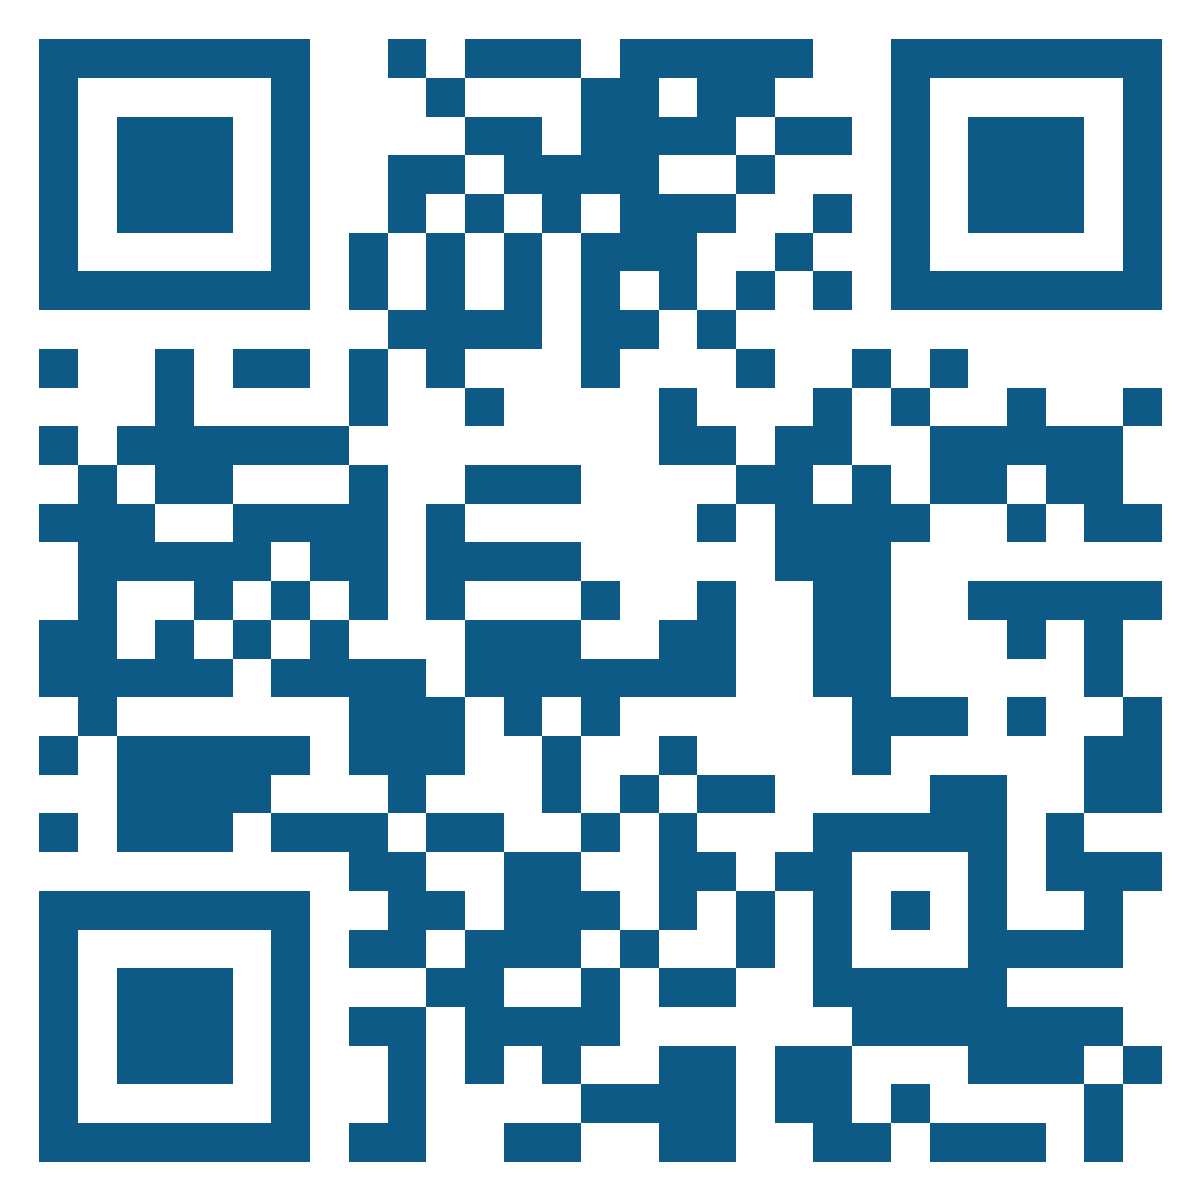
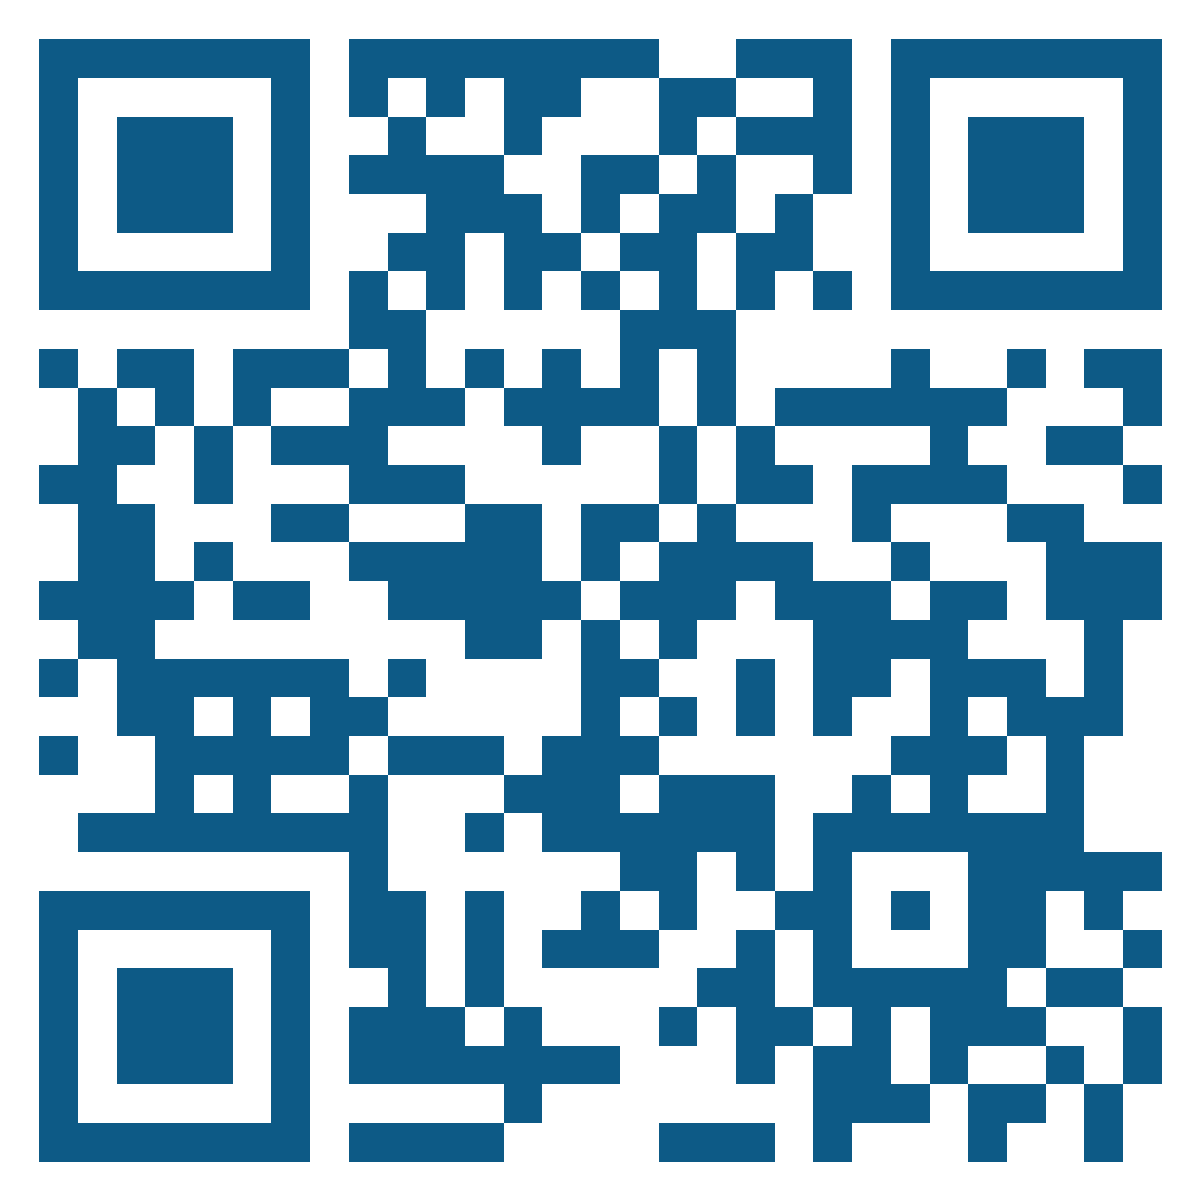
Lealtad: fija dominio real laola.mx en los QR (fuera de DEMO)

diff --git a/marketing/lealtad/flyers.html b/marketing/lealtad/flyers.html
@@ -68,14 +68,14 @@
     <div class="badge">Del Valle</div>
     <h1>Únete a La&nbsp;Ola</h1>
     <p class="lead">Escanéame y recibe tu <strong>regalo de bienvenida</strong> 🦐</p>
-    <div class="qr"><svg style="width:100%;height:100%" xmlns="http://www.w3.org/2000/svg" width="900" height="900" viewBox="0 0 31 31" shape-rendering="crispEdges"><path fill="#ffffff" d="M0 0h31v31H0z"/><path stroke="#0d5a86" d="M1 1.5h7m4 0h1m1 0h2m2 0h4m1 0h7M1 2.5h1m5 0h1m2 0h1m2 0h1m1 0h3m5 0h1m5 0h1M1 3.5h1m1 0h3m1 0h1m1 0h3m1 0h1m1 0h1m4 0h2m1 0h1m1 0h3m1 0h1M1 4.5h1m1 0h3m1 0h1m1 0h1m5 0h2m1 0h1m1 0h1m2 0h1m1 0h3m1 0h1M1 5.5h1m1 0h3m1 0h1m1 0h2m1 0h2m1 0h1m1 0h2m1 0h1m2 0h1m1 0h3m1 0h1M1 6.5h1m5 0h1m1 0h1m4 0h4m1 0h1m1 0h1m1 0h1m5 0h1M1 7.5h7m1 0h1m1 0h1m1 0h1m1 0h1m1 0h1m1 0h1m1 0h1m1 0h7M9 8.5h1m1 0h3m2 0h2m1 0h1M1 9.5h1m1 0h5m3 0h1m1 0h1m1 0h5m3 0h5M1 10.5h3m1 0h2m2 0h5m3 0h5m1 0h3m3 0h1M2 11.5h1m1 0h1m2 0h1m5 0h1m2 0h3m3 0h1m1 0h2M1 12.5h3m2 0h1m5 0h2m1 0h1m5 0h2m1 0h1m1 0h1m1 0h1M2 13.5h1m3 0h2m1 0h1m1 0h2m2 0h4m1 0h1m5 0h2M2 14.5h4m3 0h1m1 0h1m1 0h2m2 0h9m3 0h1M4 15.5h1m2 0h1m4 0h1m2 0h3m3 0h1m1 0h5M3 16.5h2m3 0h1m2 0h1m5 0h1m1 0h4m1 0h2m2 0h1M2 17.5h1m2 0h1m1 0h3m1 0h1m5 0h2m1 0h1m5 0h2M1 18.5h1m3 0h2m2 0h1m2 0h1m1 0h1m4 0h7m1 0h1m1 0h1M1 19.5h1m2 0h1m2 0h3m4 0h3m4 0h1m1 0h1m3 0h1M1 20.5h1m1 0h1m1 0h2m2 0h2m1 0h3m1 0h2m5 0h1m4 0h1M1 21.5h1m1 0h1m2 0h4m1 0h2m2 0h2m1 0h1m2 0h5m1 0h3M9 22.5h2m1 0h1m4 0h1m1 0h1m1 0h1m3 0h5M1 23.5h7m4 0h1m3 0h2m1 0h3m1 0h1m1 0h3M1 24.5h1m5 0h1m1 0h1m1 0h3m1 0h2m3 0h2m3 0h1m2 0h1M1 25.5h1m1 0h3m1 0h1m1 0h2m1 0h1m3 0h1m1 0h1m2 0h5m1 0h3M1 26.5h1m1 0h3m1 0h1m1 0h1m1 0h1m1 0h3m1 0h3m2 0h1m3 0h4M1 27.5h1m1 0h3m1 0h1m1 0h2m4 0h2m3 0h9M1 28.5h1m5 0h1m2 0h4m1 0h3m1 0h1m1 0h1m1 0h4m1 0h1M1 29.5h7m1 0h1m3 0h1m1 0h4m1 0h1m3 0h2m1 0h1"/></svg>
+    <div class="qr"><svg style="width:100%;height:100%" xmlns="http://www.w3.org/2000/svg" width="900" height="900" viewBox="0 0 31 31" shape-rendering="crispEdges"><path fill="#ffffff" d="M0 0h31v31H0z"/><path stroke="#0d5a86" d="M1 1.5h7m1 0h2m2 0h4m2 0h3m1 0h7M1 2.5h1m5 0h1m1 0h4m1 0h1m2 0h2m2 0h1m1 0h1m5 0h1M1 3.5h1m1 0h3m1 0h1m2 0h2m5 0h1m1 0h3m1 0h1m1 0h3m1 0h1M1 4.5h1m1 0h3m1 0h1m1 0h5m1 0h2m1 0h1m2 0h1m1 0h1m1 0h3m1 0h1M1 5.5h1m1 0h3m1 0h1m3 0h1m3 0h1m1 0h2m1 0h1m2 0h1m1 0h3m1 0h1M1 6.5h1m5 0h1m5 0h2m1 0h2m1 0h2m2 0h1m5 0h1M1 7.5h7m1 0h1m1 0h1m1 0h1m1 0h1m1 0h1m1 0h1m1 0h1m1 0h7M9 8.5h1m1 0h3m2 0h3M1 9.5h1m1 0h2m1 0h3m3 0h3m1 0h1m1 0h1m4 0h1m2 0h1m1 0h2M1 10.5h3m2 0h1m4 0h1m2 0h3m1 0h1m1 0h6m3 0h1M2 11.5h1m1 0h1m1 0h2m3 0h1m1 0h2m2 0h1m1 0h1m4 0h1m2 0h2M2 12.5h1m2 0h1m7 0h1m3 0h1m1 0h2m1 0h4m3 0h1M2 13.5h1m1 0h1m2 0h3m1 0h3m1 0h2m1 0h1m3 0h1m3 0h2M1 14.5h1m1 0h1m2 0h1m5 0h2m1 0h1m1 0h4m2 0h1m3 0h3M2 15.5h1m1 0h5m1 0h1m2 0h2m1 0h3m1 0h3m1 0h2m1 0h3M3 16.5h1m1 0h2m3 0h1m1 0h2m1 0h1m1 0h1m3 0h4m3 0h1M4 17.5h1m2 0h1m1 0h2m1 0h1m2 0h2m2 0h1m1 0h2m1 0h3m1 0h1M2 18.5h5m1 0h2m3 0h1m1 0h1m1 0h1m1 0h1m1 0h1m2 0h1m1 0h3M1 19.5h1m1 0h1m2 0h2m1 0h1m2 0h5m6 0h3m1 0h1M3 20.5h4m1 0h3m3 0h2m1 0h3m2 0h1m1 0h1m2 0h1M2 21.5h2m1 0h5m3 0h7m1 0h7M9 22.5h2m1 0h1m3 0h2m1 0h1m1 0h1m3 0h5M1 23.5h7m1 0h2m1 0h2m1 0h1m1 0h1m2 0h2m1 0h1m1 0h2m1 0h1M1 24.5h1m5 0h1m1 0h2m2 0h3m1 0h1m1 0h1m1 0h1m3 0h2m2 0h1M1 25.5h1m1 0h3m1 0h1m2 0h1m1 0h1m3 0h1m1 0h2m1 0h5m1 0h2M1 26.5h1m1 0h3m1 0h1m1 0h1m2 0h1m4 0h1m1 0h2m1 0h1m1 0h3m2 0h1M1 27.5h1m1 0h3m1 0h1m1 0h4m4 0h1m1 0h1m1 0h2m1 0h1m2 0h1m1 0h1M1 28.5h1m5 0h1m2 0h4m3 0h1m3 0h3m1 0h2m1 0h1M1 29.5h7m1 0h2m1 0h2m3 0h3m1 0h1m3 0h1m2 0h1"/></svg>
 </div>
     <ol class="pasos">
       <li>Apunta tu cámara al código</li>
       <li>Llena tus datos (30 segundos)</li>
       <li>Listo, ya eres parte de La Ola 🌊</li>
     </ol>
-    <div class="aviso-demo">QR DEMO · falta el dominio real del sitio</div>
+    
     <p class="legal">Al registrarte aceptas recibir promociones de La Ola. Puedes darte de baja cuando quieras. Aviso de privacidad: laola.mx/privacidad</p>
     <div class="wave-bot"></div>
   </section>
@@ -86,14 +86,14 @@
     <div class="badge">Las Brisas</div>
     <h1>Únete a La&nbsp;Ola</h1>
     <p class="lead">Escanéame y recibe tu <strong>regalo de bienvenida</strong> 🦐</p>
-    <div class="qr"><svg style="width:100%;height:100%" xmlns="http://www.w3.org/2000/svg" width="900" height="900" viewBox="0 0 31 31" shape-rendering="crispEdges"><path fill="#ffffff" d="M0 0h31v31H0z"/><path stroke="#0d5a86" d="M1 1.5h7m2 0h1m3 0h2m2 0h4m1 0h7M1 2.5h1m5 0h1m3 0h1m1 0h1m1 0h3m5 0h1m5 0h1M1 3.5h1m1 0h3m1 0h1m1 0h4m2 0h1m4 0h2m1 0h1m1 0h3m1 0h1M1 4.5h1m1 0h3m1 0h1m1 0h1m1 0h1m1 0h1m1 0h2m1 0h1m1 0h1m2 0h1m1 0h3m1 0h1M1 5.5h1m1 0h3m1 0h1m1 0h1m1 0h3m3 0h2m1 0h1m2 0h1m1 0h3m1 0h1M1 6.5h1m5 0h1m1 0h1m2 0h3m1 0h2m1 0h1m1 0h1m1 0h1m5 0h1M1 7.5h7m1 0h1m1 0h1m1 0h1m1 0h1m1 0h1m1 0h1m1 0h1m1 0h7M9 8.5h5m2 0h2m1 0h1M1 9.5h1m1 0h5m3 0h1m1 0h1m1 0h5m3 0h5M4 10.5h1m1 0h1m3 0h1m4 0h1m1 0h5m1 0h3m3 0h1M5 11.5h1m1 0h1m4 0h3m1 0h3m3 0h1m1 0h2M2 12.5h3m3 0h2m1 0h1m9 0h2m1 0h1m1 0h1m1 0h1M3 13.5h2m2 0h4m4 0h4m1 0h1m5 0h2M2 14.5h1m1 0h1m3 0h1m5 0h1m2 0h9m3 0h1M2 15.5h1m1 0h2m1 0h1m2 0h4m2 0h2m3 0h1m1 0h5M1 16.5h1m3 0h2m2 0h1m1 0h3m1 0h1m1 0h1m1 0h4m1 0h2m2 0h1M2 17.5h3m2 0h1m2 0h1m1 0h1m4 0h2m1 0h1m5 0h2M1 18.5h1m1 0h1m1 0h2m2 0h4m1 0h1m4 0h7m1 0h1m1 0h1M1 19.5h1m1 0h1m3 0h1m4 0h5m4 0h1m1 0h1m3 0h1M1 20.5h1m1 0h2m4 0h4m1 0h1m1 0h2m5 0h1m4 0h1M1 21.5h1m4 0h2m1 0h4m2 0h2m1 0h1m2 0h5m1 0h3M9 22.5h2m1 0h1m4 0h1m1 0h1m1 0h1m3 0h5M1 23.5h7m2 0h4m2 0h2m1 0h3m1 0h1m1 0h3M1 24.5h1m5 0h1m1 0h3m1 0h1m1 0h2m3 0h2m3 0h1m2 0h1M1 25.5h1m1 0h3m1 0h1m1 0h2m2 0h1m2 0h1m1 0h1m2 0h5m1 0h3M1 26.5h1m1 0h3m1 0h1m1 0h1m2 0h1m1 0h2m1 0h3m2 0h1m3 0h4M1 27.5h1m1 0h3m1 0h1m1 0h1m1 0h2m3 0h1m3 0h9M1 28.5h1m5 0h1m4 0h3m1 0h2m1 0h1m1 0h1m1 0h4m1 0h1M1 29.5h7m1 0h1m2 0h1m1 0h1m1 0h3m1 0h1m3 0h2m1 0h1"/></svg>
+    <div class="qr"><svg style="width:100%;height:100%" xmlns="http://www.w3.org/2000/svg" width="900" height="900" viewBox="0 0 31 31" shape-rendering="crispEdges"><path fill="#ffffff" d="M0 0h31v31H0z"/><path stroke="#0d5a86" d="M1 1.5h7m1 0h1m1 0h1m2 0h3m2 0h3m1 0h7M1 2.5h1m5 0h1m1 0h3m1 0h2m2 0h2m2 0h1m1 0h1m5 0h1M1 3.5h1m1 0h3m1 0h1m2 0h2m1 0h1m3 0h1m1 0h3m1 0h1m1 0h3m1 0h1M1 4.5h1m1 0h3m1 0h1m1 0h1m1 0h2m2 0h2m1 0h1m2 0h1m1 0h1m1 0h3m1 0h1M1 5.5h1m1 0h3m1 0h1m2 0h1m1 0h2m1 0h1m1 0h2m1 0h1m2 0h1m1 0h3m1 0h1M1 6.5h1m5 0h1m4 0h3m1 0h2m1 0h2m2 0h1m5 0h1M1 7.5h7m1 0h1m1 0h1m1 0h1m1 0h1m1 0h1m1 0h1m1 0h1m1 0h7M9 8.5h1m2 0h1m3 0h3M1 9.5h1m1 0h2m1 0h3m2 0h1m2 0h1m1 0h1m1 0h1m4 0h1m2 0h1m1 0h2M2 10.5h2m1 0h2m4 0h2m1 0h3m1 0h1m1 0h6m3 0h1M1 11.5h1m1 0h3m1 0h1m1 0h2m2 0h2m2 0h1m1 0h1m4 0h1m2 0h2M2 12.5h1m2 0h1m4 0h2m5 0h1m1 0h2m1 0h4m3 0h1M3 13.5h1m2 0h2m1 0h1m1 0h1m3 0h2m1 0h1m3 0h1m3 0h2M4 14.5h1m3 0h1m4 0h1m1 0h1m1 0h4m2 0h1m3 0h3M1 15.5h2m2 0h1m1 0h2m2 0h1m2 0h1m1 0h3m1 0h3m1 0h2m1 0h3M3 16.5h1m5 0h1m2 0h2m1 0h1m1 0h1m3 0h4m3 0h1M2 17.5h2m2 0h2m1 0h2m4 0h2m2 0h1m1 0h2m1 0h3m1 0h1M2 18.5h5m1 0h6m1 0h1m1 0h1m1 0h1m1 0h1m2 0h1m1 0h3M1 19.5h1m1 0h1m1 0h1m1 0h1m6 0h4m5 0h3m1 0h1M5 20.5h1m4 0h1m1 0h4m2 0h2m2 0h1m1 0h1m2 0h1M2 21.5h1m1 0h1m2 0h1m1 0h1m2 0h8m1 0h7M9 22.5h1m1 0h2m3 0h2m1 0h1m1 0h1m3 0h5M1 23.5h7m1 0h1m1 0h1m1 0h1m1 0h1m4 0h2m1 0h1m1 0h2m1 0h1M1 24.5h1m5 0h1m1 0h2m3 0h4m1 0h1m1 0h1m3 0h2m2 0h1M1 25.5h1m1 0h3m1 0h1m2 0h1m1 0h2m2 0h4m1 0h5m1 0h2M1 26.5h1m1 0h3m1 0h1m1 0h1m3 0h2m2 0h1m1 0h2m1 0h1m1 0h3m2 0h1M1 27.5h1m1 0h3m1 0h1m1 0h2m1 0h3m2 0h1m1 0h1m1 0h2m1 0h1m2 0h1m1 0h1M1 28.5h1m5 0h1m2 0h4m1 0h1m5 0h3m1 0h2m1 0h1M1 29.5h7m1 0h3m1 0h3m2 0h2m1 0h1m3 0h1m2 0h1"/></svg>
 </div>
     <ol class="pasos">
       <li>Apunta tu cámara al código</li>
       <li>Llena tus datos (30 segundos)</li>
       <li>Listo, ya eres parte de La Ola 🌊</li>
     </ol>
-    <div class="aviso-demo">QR DEMO · falta el dominio real del sitio</div>
+    
     <p class="legal">Al registrarte aceptas recibir promociones de La Ola. Puedes darte de baja cuando quieras. Aviso de privacidad: laola.mx/privacidad</p>
     <div class="wave-bot"></div>
   </section>
@@ -104,14 +104,14 @@
     <div class="badge">Cervecería</div>
     <h1>Únete a La&nbsp;Ola</h1>
     <p class="lead">Escanéame y recibe tu <strong>regalo de bienvenida</strong> 🦐</p>
-    <div class="qr"><svg style="width:100%;height:100%" xmlns="http://www.w3.org/2000/svg" width="900" height="900" viewBox="0 0 31 31" shape-rendering="crispEdges"><path fill="#ffffff" d="M0 0h31v31H0z"/><path stroke="#0d5a86" d="M1 1.5h7m2 0h2m1 0h3m2 0h4m1 0h7M1 2.5h1m5 0h1m2 0h1m1 0h1m2 0h3m5 0h1m5 0h1M1 3.5h1m1 0h3m1 0h1m1 0h1m3 0h1m1 0h1m4 0h2m1 0h1m1 0h3m1 0h1M1 4.5h1m1 0h3m1 0h1m1 0h3m3 0h2m1 0h1m1 0h1m2 0h1m1 0h3m1 0h1M1 5.5h1m1 0h3m1 0h1m1 0h1m1 0h1m5 0h2m1 0h1m2 0h1m1 0h3m1 0h1M1 6.5h1m5 0h1m1 0h1m1 0h2m1 0h1m1 0h2m1 0h1m1 0h1m1 0h1m5 0h1M1 7.5h7m1 0h1m1 0h1m1 0h1m1 0h1m1 0h1m1 0h1m1 0h1m1 0h7M9 8.5h1m2 0h2m1 0h3m1 0h1M1 9.5h1m1 0h5m4 0h2m1 0h5m3 0h5M1 10.5h2m5 0h1m3 0h1m4 0h5m1 0h3m3 0h1M2 11.5h2m1 0h5m1 0h1m1 0h1m1 0h4m3 0h1m1 0h2M1 12.5h1m2 0h1m1 0h1m1 0h1m1 0h3m2 0h1m5 0h2m1 0h1m1 0h1m1 0h1M1 13.5h3m1 0h5m2 0h2m1 0h4m1 0h1m5 0h2M2 14.5h2m5 0h2m1 0h1m2 0h1m1 0h9m3 0h1M2 15.5h2m1 0h1m1 0h1m1 0h6m1 0h2m3 0h1m1 0h5M2 16.5h2m1 0h2m5 0h2m3 0h1m1 0h4m1 0h2m2 0h1M3 17.5h3m1 0h1m1 0h1m3 0h1m3 0h2m1 0h1m5 0h2M1 18.5h2m3 0h1m1 0h2m4 0h1m4 0h7m1 0h1m1 0h1M1 19.5h1m2 0h1m2 0h1m3 0h2m1 0h3m4 0h1m1 0h1m3 0h1M1 20.5h1m1 0h2m3 0h1m2 0h4m1 0h2m5 0h1m4 0h1M1 21.5h1m1 0h1m1 0h3m1 0h1m1 0h3m1 0h2m1 0h1m2 0h5m1 0h3M9 22.5h1m3 0h1m3 0h1m1 0h1m1 0h1m3 0h5M1 23.5h7m2 0h2m1 0h1m2 0h2m1 0h3m1 0h1m1 0h3M1 24.5h1m5 0h1m1 0h2m2 0h1m1 0h2m3 0h2m3 0h1m2 0h1M1 25.5h1m1 0h3m1 0h1m1 0h3m4 0h1m1 0h1m2 0h5m1 0h3M1 26.5h1m1 0h3m1 0h1m1 0h1m2 0h1m1 0h2m1 0h3m2 0h1m3 0h4M1 27.5h1m1 0h3m1 0h1m1 0h2m2 0h4m3 0h9M1 28.5h1m5 0h1m3 0h7m1 0h1m1 0h1m1 0h4m1 0h1M1 29.5h7m1 0h3m4 0h3m1 0h1m3 0h2m1 0h1"/></svg>
+    <div class="qr"><svg style="width:100%;height:100%" xmlns="http://www.w3.org/2000/svg" width="900" height="900" viewBox="0 0 31 31" shape-rendering="crispEdges"><path fill="#ffffff" d="M0 0h31v31H0z"/><path stroke="#0d5a86" d="M1 1.5h7m1 0h1m2 0h1m1 0h3m2 0h3m1 0h7M1 2.5h1m5 0h1m1 0h2m1 0h1m1 0h1m2 0h2m2 0h1m1 0h1m5 0h1M1 3.5h1m1 0h3m1 0h1m2 0h2m5 0h1m1 0h3m1 0h1m1 0h3m1 0h1M1 4.5h1m1 0h3m1 0h1m1 0h4m2 0h2m1 0h1m2 0h1m1 0h1m1 0h3m1 0h1M1 5.5h1m1 0h3m1 0h1m2 0h1m4 0h1m1 0h2m1 0h1m2 0h1m1 0h3m1 0h1M1 6.5h1m5 0h1m2 0h1m1 0h1m1 0h1m1 0h2m1 0h2m2 0h1m5 0h1M1 7.5h7m1 0h1m1 0h1m1 0h1m1 0h1m1 0h1m1 0h1m1 0h1m1 0h7M9 8.5h1m1 0h3m2 0h3M1 9.5h1m1 0h2m1 0h3m1 0h1m1 0h3m1 0h1m1 0h1m4 0h1m2 0h1m1 0h2M2 10.5h1m5 0h4m2 0h3m1 0h1m1 0h6m3 0h1M1 11.5h1m2 0h6m2 0h3m2 0h1m1 0h1m4 0h1m2 0h2M1 12.5h1m1 0h1m1 0h2m1 0h2m2 0h2m3 0h1m1 0h2m1 0h4m3 0h1M1 13.5h1m1 0h1m3 0h3m2 0h1m2 0h2m1 0h1m3 0h1m3 0h2M1 14.5h1m2 0h2m2 0h1m1 0h3m2 0h1m1 0h4m2 0h1m3 0h3M1 15.5h2m2 0h1m1 0h1m2 0h1m1 0h1m1 0h1m1 0h3m1 0h3m1 0h2m1 0h3M4 16.5h1m1 0h1m6 0h1m1 0h1m1 0h1m3 0h4m3 0h1M2 17.5h2m3 0h1m1 0h3m1 0h1m1 0h2m2 0h1m1 0h2m1 0h3m1 0h1M2 18.5h1m3 0h1m1 0h2m1 0h1m3 0h1m1 0h1m1 0h1m1 0h1m2 0h1m1 0h3M1 19.5h1m2 0h2m1 0h1m2 0h1m1 0h5m6 0h3m1 0h1M5 20.5h1m2 0h3m2 0h4m1 0h2m2 0h1m1 0h1m2 0h1M2 21.5h2m1 0h5m2 0h1m1 0h2m2 0h2m1 0h7M9 22.5h2m1 0h1m3 0h2m1 0h1m1 0h1m3 0h5M1 23.5h7m1 0h2m1 0h1m2 0h1m1 0h1m2 0h2m1 0h1m1 0h2m1 0h1M1 24.5h1m5 0h1m1 0h2m3 0h2m3 0h1m1 0h1m3 0h2m2 0h1M1 25.5h1m1 0h3m1 0h1m4 0h2m2 0h1m1 0h2m1 0h5m1 0h2M1 26.5h1m1 0h3m1 0h1m1 0h3m5 0h1m1 0h2m1 0h1m1 0h3m2 0h1M1 27.5h1m1 0h3m1 0h1m1 0h1m1 0h1m2 0h2m3 0h1m1 0h2m1 0h1m2 0h1m1 0h1M1 28.5h1m5 0h1m2 0h2m1 0h1m1 0h1m5 0h3m1 0h2m1 0h1M1 29.5h7m1 0h1m4 0h1m3 0h2m1 0h1m3 0h1m2 0h1"/></svg>
 </div>
     <ol class="pasos">
       <li>Apunta tu cámara al código</li>
       <li>Llena tus datos (30 segundos)</li>
       <li>Listo, ya eres parte de La Ola 🌊</li>
     </ol>
-    <div class="aviso-demo">QR DEMO · falta el dominio real del sitio</div>
+    
     <p class="legal">Al registrarte aceptas recibir promociones de La Ola. Puedes darte de baja cuando quieras. Aviso de privacidad: laola.mx/privacidad</p>
     <div class="wave-bot"></div>
   </section>
@@ -122,14 +122,14 @@
     <div class="badge">Solares</div>
     <h1>Únete a La&nbsp;Ola</h1>
     <p class="lead">Escanéame y recibe tu <strong>regalo de bienvenida</strong> 🦐</p>
-    <div class="qr"><svg style="width:100%;height:100%" xmlns="http://www.w3.org/2000/svg" width="900" height="900" viewBox="0 0 31 31" shape-rendering="crispEdges"><path fill="#ffffff" d="M0 0h31v31H0z"/><path stroke="#0d5a86" d="M1 1.5h7m2 0h1m1 0h3m1 0h5m2 0h7M1 2.5h1m5 0h1m3 0h1m3 0h2m1 0h2m3 0h1m5 0h1M1 3.5h1m1 0h3m1 0h1m4 0h2m1 0h4m1 0h2m1 0h1m1 0h3m1 0h1M1 4.5h1m1 0h3m1 0h1m2 0h2m1 0h4m2 0h1m3 0h1m1 0h3m1 0h1M1 5.5h1m1 0h3m1 0h1m2 0h1m1 0h1m1 0h1m1 0h3m2 0h1m1 0h1m1 0h3m1 0h1M1 6.5h1m5 0h1m1 0h1m1 0h1m1 0h1m1 0h3m2 0h1m2 0h1m5 0h1M1 7.5h7m1 0h1m1 0h1m1 0h1m1 0h1m1 0h1m1 0h1m1 0h1m1 0h7M10 8.5h4m1 0h2m1 0h1M1 9.5h1m2 0h1m1 0h2m1 0h1m1 0h1m3 0h1m3 0h1m2 0h1m1 0h1M4 10.5h1m4 0h1m2 0h1m4 0h1m3 0h1m1 0h1m2 0h1m2 0h1M1 11.5h1m1 0h6m8 0h2m1 0h2m2 0h5M2 12.5h1m1 0h2m3 0h1m2 0h3m4 0h2m1 0h1m1 0h2m1 0h2M1 13.5h3m2 0h4m1 0h1m6 0h1m1 0h4m2 0h1m1 0h2M2 14.5h5m1 0h2m1 0h4m5 0h3M2 15.5h1m2 0h1m1 0h1m1 0h1m1 0h1m3 0h1m2 0h1m2 0h2m2 0h5M1 16.5h2m1 0h1m1 0h1m1 0h1m3 0h3m2 0h2m2 0h2m3 0h1m1 0h1M1 17.5h5m1 0h4m1 0h7m2 0h2m5 0h1M2 18.5h1m6 0h3m1 0h1m1 0h1m6 0h3m1 0h1m2 0h1M1 19.5h1m1 0h5m1 0h3m2 0h1m2 0h1m4 0h1m5 0h2M3 20.5h4m3 0h1m3 0h1m1 0h1m1 0h2m4 0h2m2 0h2M1 21.5h1m1 0h3m1 0h3m1 0h2m2 0h1m1 0h1m3 0h5m1 0h1M9 22.5h2m2 0h2m2 0h2m1 0h2m3 0h1m1 0h3M1 23.5h7m2 0h2m1 0h3m1 0h1m1 0h1m1 0h1m1 0h1m1 0h1m2 0h1M1 24.5h1m5 0h1m1 0h2m1 0h3m1 0h1m2 0h1m1 0h1m3 0h4M1 25.5h1m1 0h3m1 0h1m3 0h2m2 0h1m1 0h2m2 0h5M1 26.5h1m1 0h3m1 0h1m1 0h2m1 0h4m6 0h7M1 27.5h1m1 0h3m1 0h1m2 0h1m1 0h1m1 0h1m2 0h2m1 0h2m3 0h3m1 0h1M1 28.5h1m5 0h1m2 0h1m4 0h4m1 0h2m1 0h1m4 0h1M1 29.5h7m1 0h2m2 0h2m2 0h2m2 0h2m1 0h3m1 0h1"/></svg>
+    <div class="qr"><svg style="width:100%;height:100%" xmlns="http://www.w3.org/2000/svg" width="900" height="900" viewBox="0 0 31 31" shape-rendering="crispEdges"><path fill="#ffffff" d="M0 0h31v31H0z"/><path stroke="#0d5a86" d="M1 1.5h7m1 0h8m2 0h3m1 0h7M1 2.5h1m5 0h1m1 0h1m1 0h1m1 0h2m2 0h2m2 0h1m1 0h1m5 0h1M1 3.5h1m1 0h3m1 0h1m2 0h1m2 0h1m3 0h1m1 0h3m1 0h1m1 0h3m1 0h1M1 4.5h1m1 0h3m1 0h1m1 0h4m2 0h2m1 0h1m2 0h1m1 0h1m1 0h3m1 0h1M1 5.5h1m1 0h3m1 0h1m3 0h3m1 0h1m1 0h2m1 0h1m2 0h1m1 0h3m1 0h1M1 6.5h1m5 0h1m2 0h2m1 0h2m1 0h2m1 0h2m2 0h1m5 0h1M1 7.5h7m1 0h1m1 0h1m1 0h1m1 0h1m1 0h1m1 0h1m1 0h1m1 0h7M9 8.5h2m5 0h3M1 9.5h1m1 0h2m1 0h3m1 0h1m1 0h1m1 0h1m1 0h1m1 0h1m4 0h1m2 0h1m1 0h2M2 10.5h1m1 0h1m1 0h1m2 0h3m1 0h4m1 0h1m1 0h6m3 0h1M2 11.5h2m1 0h1m1 0h3m4 0h1m2 0h1m1 0h1m4 0h1m2 0h2M1 12.5h2m2 0h1m3 0h3m5 0h1m1 0h2m1 0h4m3 0h1M2 13.5h2m3 0h2m3 0h2m1 0h2m1 0h1m3 0h1m3 0h2M2 14.5h2m1 0h1m3 0h5m1 0h1m1 0h4m2 0h1m3 0h3M1 15.5h4m1 0h2m2 0h5m1 0h3m1 0h3m1 0h2m1 0h3M2 16.5h2m8 0h2m1 0h1m1 0h1m3 0h4m3 0h1M1 17.5h1m1 0h6m1 0h1m4 0h2m2 0h1m1 0h2m1 0h3m1 0h1M3 18.5h2m1 0h1m1 0h2m5 0h1m1 0h1m1 0h1m1 0h1m2 0h1m1 0h3M1 19.5h1m2 0h5m1 0h3m1 0h3m6 0h3m1 0h1M4 20.5h1m1 0h1m2 0h1m3 0h3m1 0h3m2 0h1m1 0h1m2 0h1M2 21.5h8m2 0h1m1 0h6m1 0h7M9 22.5h1m6 0h2m1 0h1m1 0h1m3 0h5M1 23.5h7m1 0h2m1 0h1m2 0h1m1 0h1m2 0h2m1 0h1m1 0h2m1 0h1M1 24.5h1m5 0h1m1 0h2m1 0h1m1 0h3m2 0h1m1 0h1m3 0h2m2 0h1M1 25.5h1m1 0h3m1 0h1m2 0h1m1 0h1m5 0h2m1 0h5m1 0h2M1 26.5h1m1 0h3m1 0h1m1 0h3m1 0h1m3 0h1m1 0h2m1 0h1m1 0h3m2 0h1M1 27.5h1m1 0h3m1 0h1m1 0h7m3 0h1m1 0h2m1 0h1m2 0h1m1 0h1M1 28.5h1m5 0h1m5 0h1m7 0h3m1 0h2m1 0h1M1 29.5h7m1 0h4m4 0h3m1 0h1m3 0h1m2 0h1"/></svg>
 </div>
     <ol class="pasos">
       <li>Apunta tu cámara al código</li>
       <li>Llena tus datos (30 segundos)</li>
       <li>Listo, ya eres parte de La Ola 🌊</li>
     </ol>
-    <div class="aviso-demo">QR DEMO · falta el dominio real del sitio</div>
+    
     <p class="legal">Al registrarte aceptas recibir promociones de La Ola. Puedes darte de baja cuando quieras. Aviso de privacidad: laola.mx/privacidad</p>
     <div class="wave-bot"></div>
   </section>
